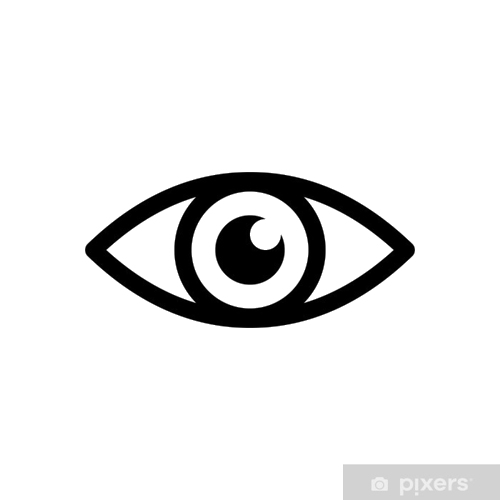
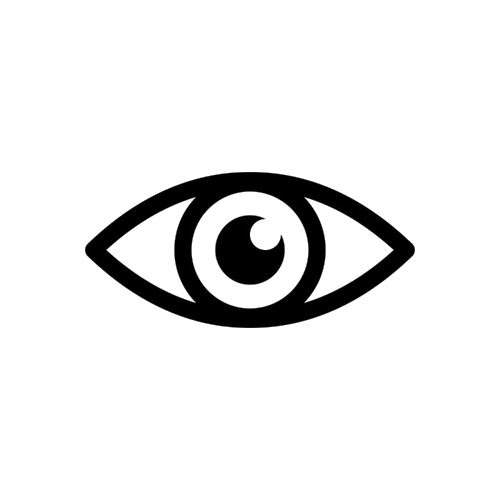
fix save file

Changed region(s): [[0.66, 0.93, 1.0, 1.0]]

diff --git a/core/Saved_project.py b/core/Saved_project.py
@@ -1,4 +1,3 @@
-import os
 import json
 
 
@@ -10,7 +9,7 @@ class Saved_project:
         self.save_file_image_widget = save_file_image_widget
 
 
-    #save current porject to json file and save all iamge / video / frame
+    #save current project to json file
     def save_current_project_to_files(self, json_path_of_file):
 
         #try to save
@@ -19,47 +18,35 @@ class Saved_project:
             save_file_draw_rectangle = self.save_file_image_widget.draw_rectangle
             save_file_label_log = self.save_file_image_widget.label_log
 
-            #extract the file name from current path
-            current_output_folder_path = os.path.dirname(json_path_of_file)
-            #extract the folder from current path
-            current_file_name = os.path.splitext(os.path.basename(json_path_of_file))[0]
-
-            #create folder for all image / video frames
-            frames_output_folder = os.path.join(current_output_folder_path, f"{current_file_name}_files")
-            os.makedirs(frames_output_folder, exist_ok=True)
-
-            #data need to saved in jason
             #base iforamtaion to json
             project_jason_data = {
-                #chek if is wideo (need from load)
+                #chek if is wideo
                 "is_video": self.save_file_image_widget.it_is_video,
-                #all frame from video
+                #all frame count
                 "frame_count": len(self.save_file_image_widget.All_frames),
+                #next ids of annotations
+                "next_annotation_id": save_file_draw_rectangle.next_annotation_id,
+                "next_label_id": save_file_label_log.label_next_id,
                 #name of labes
                 "labels": self.build_data_of_labels(save_file_label_log),
-                #current frames with annotaion
+                #only frames with annotaion
                 "frames": {}
             }
 
-            #save all load frames in program with annotaion and without annotaion
-            for current_frame_index, current_frame_pixmap in enumerate(self.save_file_image_widget.All_frames):
+            #save only frames witch have annotaion
+            for current_frame_index, frame_annotations in save_file_draw_rectangle.fream_annotation.items():
 
-                #craete name of file
-                frame_image_file_name = f"frame_{current_frame_index}.png"
-                #save current image(png change) with same name as current file
-                current_frame_pixmap.save(os.path.join(frames_output_folder, frame_image_file_name), "PNG")
-
-                #all annotation in current frame
-                frame_annotations = save_file_draw_rectangle.fream_annotation.get(current_frame_index, [])
+                #if frame without annotaion then skip
+                if not frame_annotations:
+                    continue
 
                 #source file of orginal  frame
                 source_file_name = ""
                 if current_frame_index < len(self.save_file_image_widget.file_frame_name):
                     source_file_name = self.save_file_image_widget.file_frame_name[current_frame_index]
 
-                #data of annotaion with file name
+                #data of annotaion with index of frame
                 project_jason_data["frames"][str(current_frame_index)] = {
-                    "image_file": f"{current_file_name}_files/{frame_image_file_name}",
                     "source_file_name": source_file_name,
                     "annotations": [dict(annotation) for annotation in frame_annotations]
                 }
